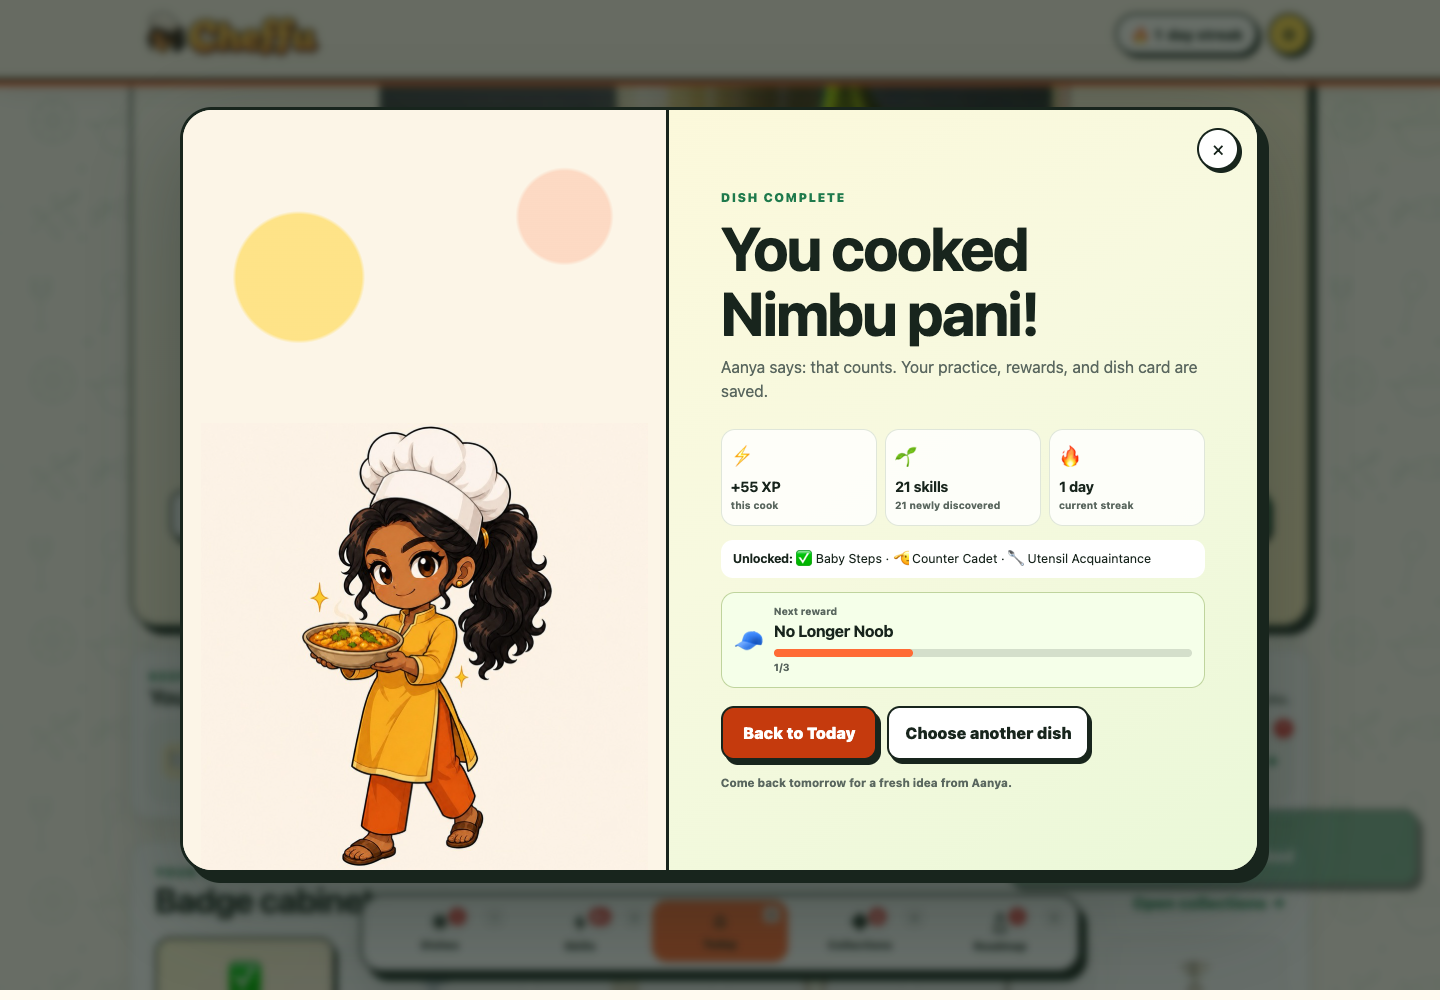
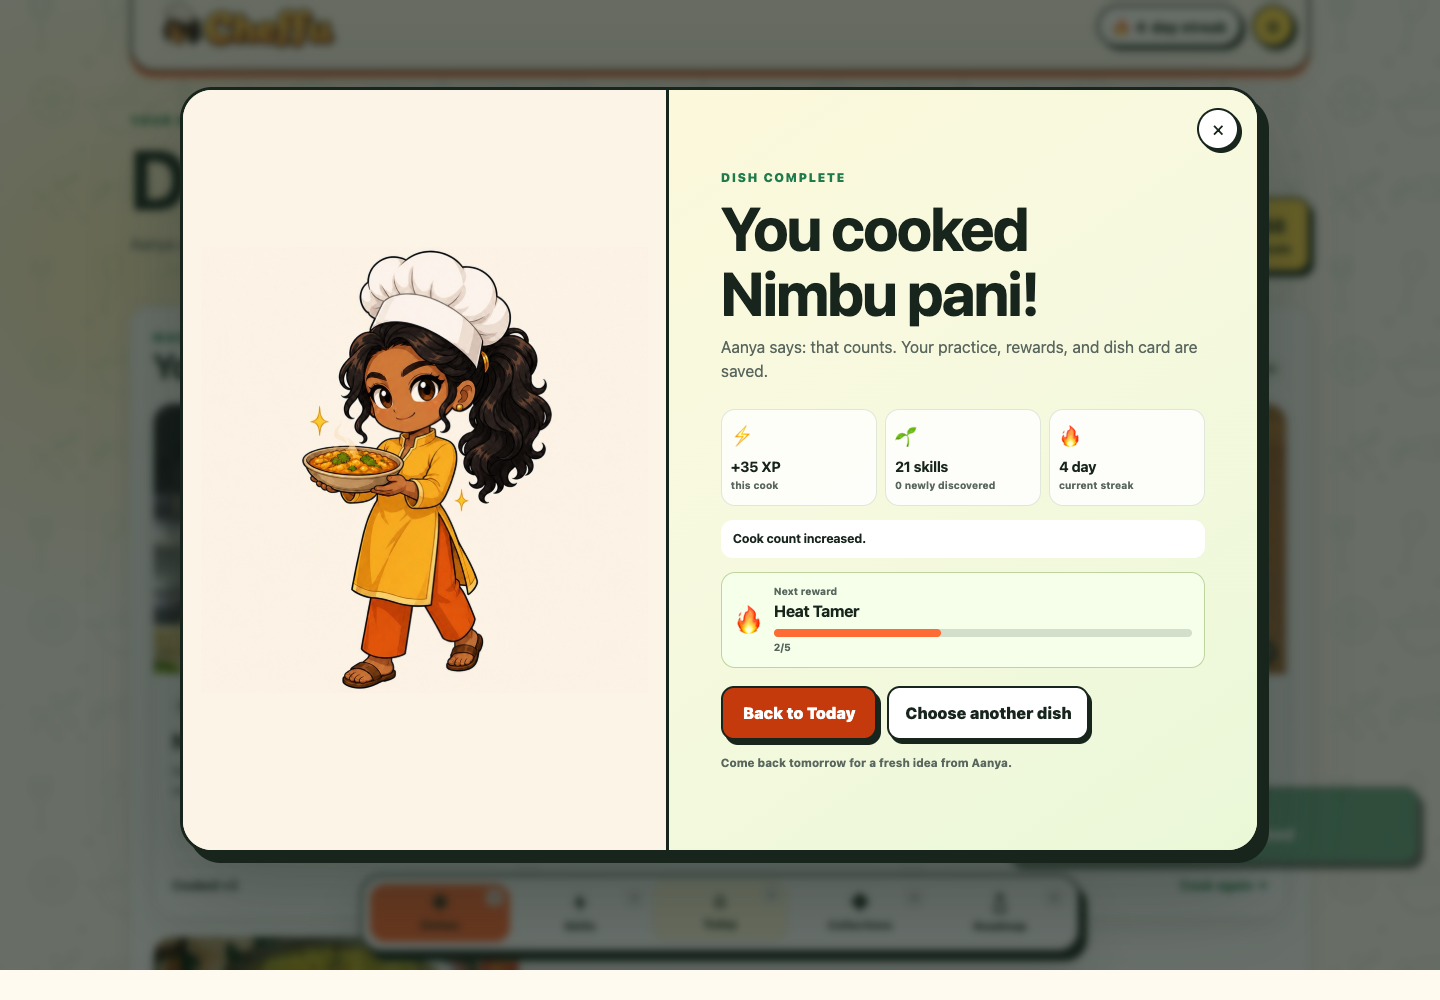
Add laptop previews for every app section

diff --git a/README.md b/README.md
@@ -26,6 +26,32 @@
 
 <p align="center"><sub>A completed cook awards XP, develops skills, extends the streak, and moves the next reward forward.</sub></p>
 
+## Explore the app
+
+### Grow a connected skill tree
+
+<p align="center">
+  <img src="assets/screenshots/cheffu-skills-desktop.png" alt="Cheffu connected cooking skill tree on a laptop" width="100%">
+</p>
+
+### Cook any dish
+
+<p align="center">
+  <img src="assets/screenshots/cheffu-dishes-desktop.png" alt="Cheffu searchable dishes library and cooked dish cards on a laptop" width="100%">
+</p>
+
+### Collect titles and rewards
+
+<p align="center">
+  <img src="assets/screenshots/cheffu-collections-desktop.png" alt="Cheffu collection and title vault on a laptop" width="100%">
+</p>
+
+### Choose a cooking path
+
+<p align="center">
+  <img src="assets/screenshots/cheffu-roadmap-desktop.png" alt="Cheffu guided cooking roadmap on a laptop" width="100%">
+</p>
+
 ## What is Cheffu?
 
 Cheffu is a static cooking game designed for beginner cooks in India, especially protein-conscious young adults who have never felt comfortable in a kitchen. It starts with tiny wins such as mixing a drink, then gradually introduces heat, pans, tadka, pressure cooking, curries, dough, fermentation, and complete meals.
